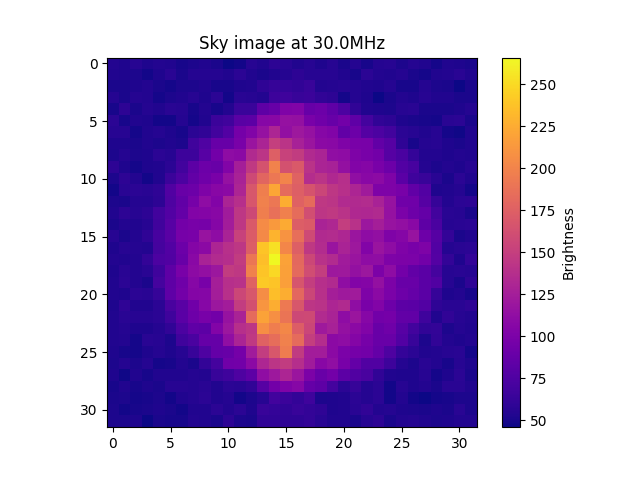
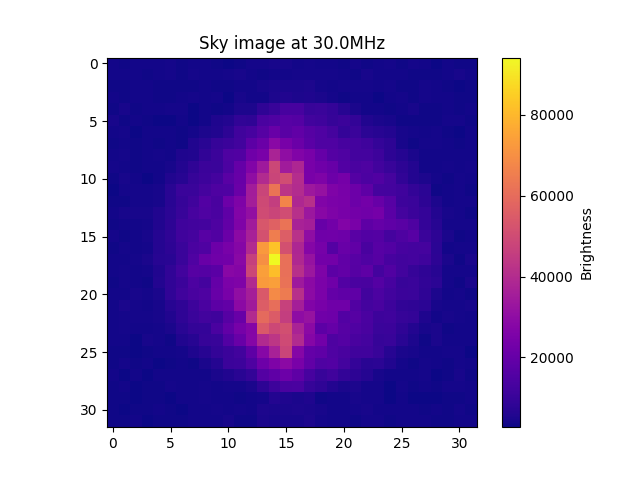
fixed brightness in fftt_image example

diff --git a/examples/fftt_image.py b/examples/fftt_image.py
@@ -39,7 +39,7 @@ def sim_result_to_fftt_image(result):
     bin = round(IMAGE_FREQ * sample_window_size / sample_frequency)
     e_field = spectra[:, bin]
     image = np.fft.fftshift(np.fft.ifft2(e_field.reshape((32, 32))))
-    return np.abs(image)
+    return np.abs(image) ** 2
 
 
 def run():